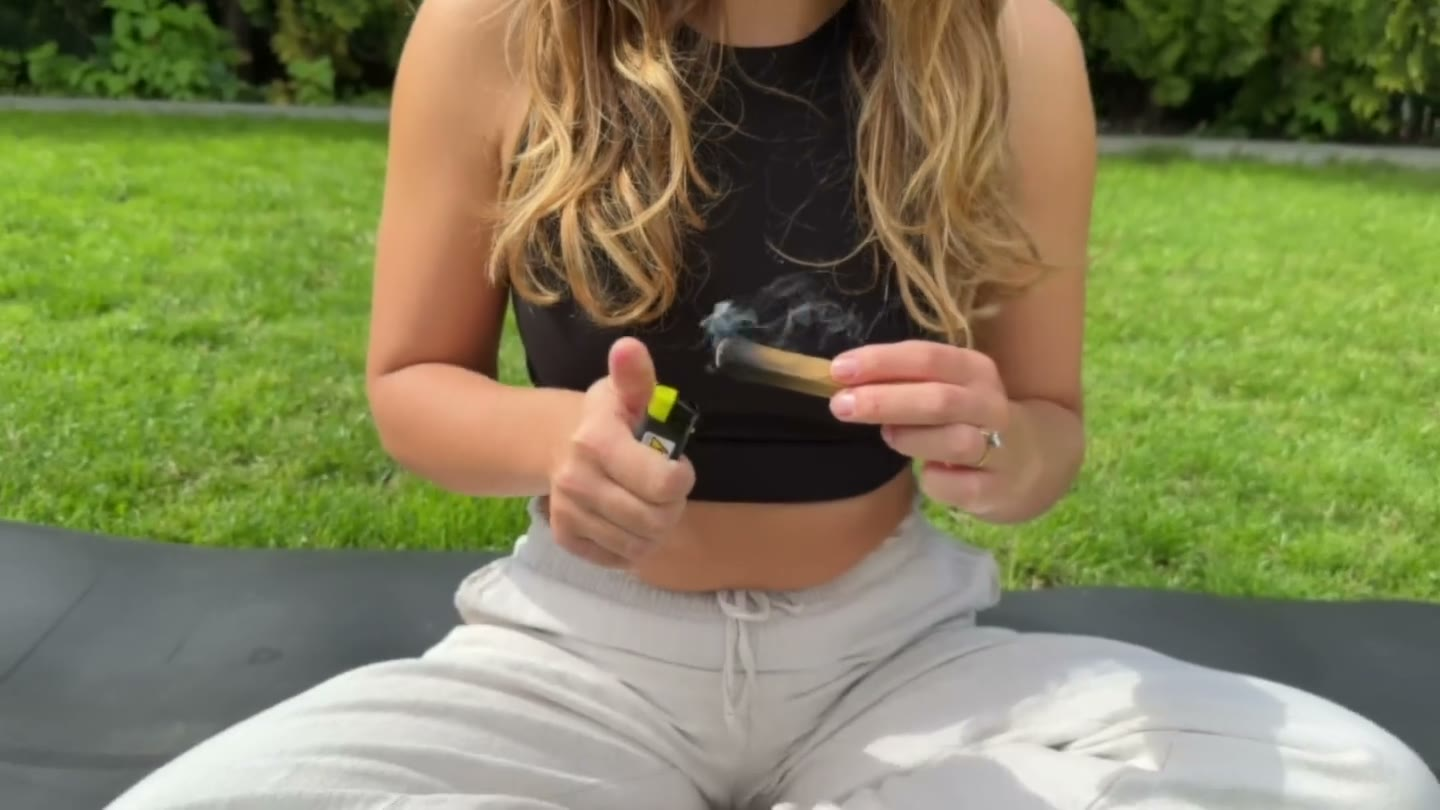
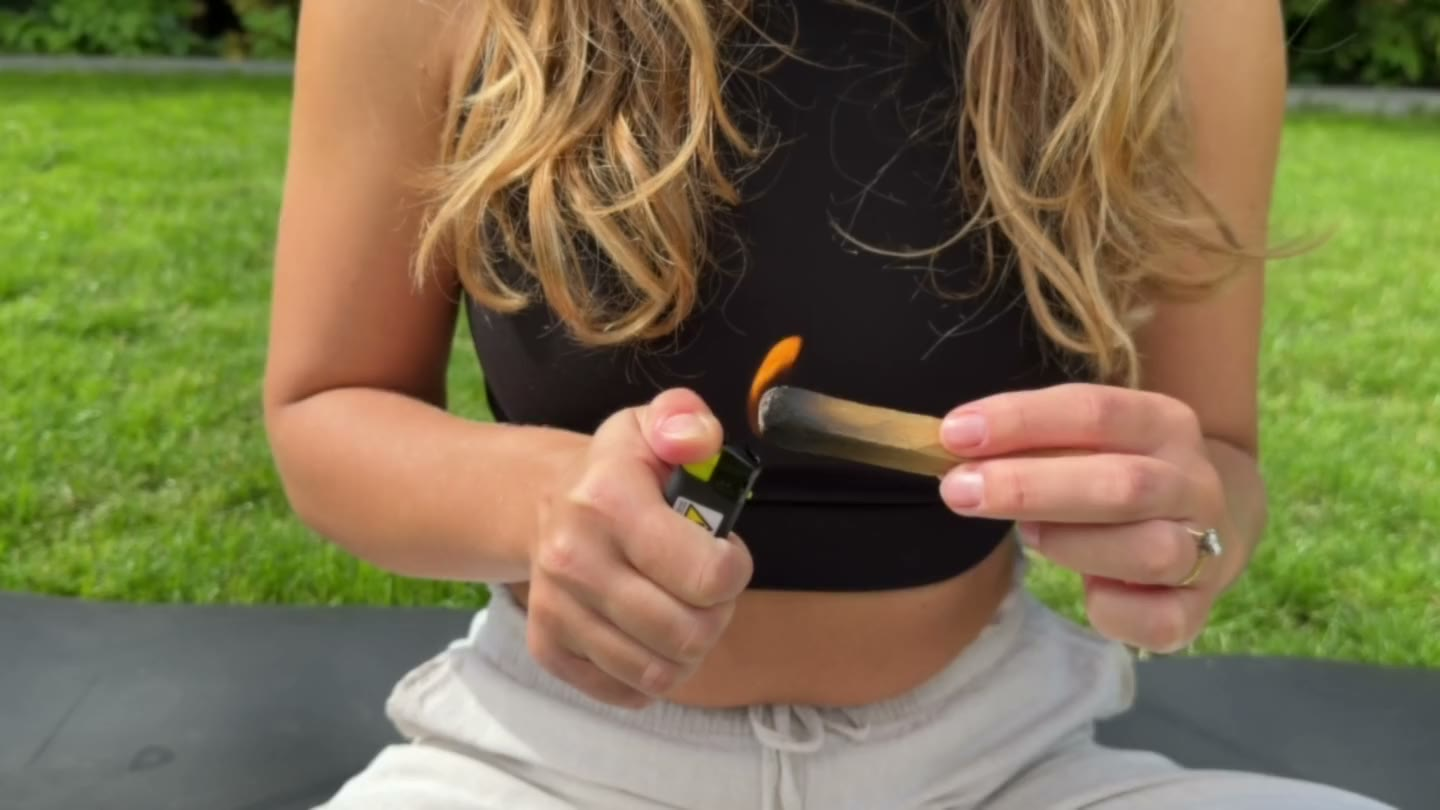
Plynne wejscie wideo, poster zgodny z pierwsza klatka
Claude-Session: https://claude.ai/code/session_01FkRM7QP6YXK2C4QfBibpw8

diff --git a/style.css b/style.css
@@ -95,8 +95,9 @@ section { padding-block: 72px; }
 /* ========================================
    HERO: wideo na całą szerokość
    ======================================== */
-.hero { position: relative; height: 100svh; min-height: 520px; max-height: 900px; overflow: hidden; background: var(--choco); padding: 0; }
-.hero__video { position: absolute; inset: 0; width: 100%; height: 100%; object-fit: cover; }
+.hero { position: relative; height: 100svh; min-height: 520px; max-height: 900px; overflow: hidden; padding: 0; background: var(--choco) url("img/hero-poster.jpg") center / cover no-repeat; }
+.hero__video { position: absolute; inset: 0; width: 100%; height: 100%; object-fit: cover; opacity: 0; transition: opacity .45s ease; }
+.hero__video.is-ready { opacity: 1; }
 .hero::before { content: ""; position: absolute; inset: 0; background: linear-gradient(180deg, rgba(58,42,32,0.25) 0%, rgba(58,42,32,0.15) 50%, rgba(58,42,32,0.55) 100%); }
 .hero__overlay { position: relative; z-index: 1; height: 100%; display: flex; flex-direction: column; align-items: center; justify-content: center; text-align: center; padding: 20px; color: var(--bg); }
 .hero__title { font-family: var(--font-head); font-weight: 400; font-size: clamp(5.5rem, 22vw, 12rem); line-height: 0.9; letter-spacing: 0.08em; text-transform: uppercase; color: var(--bg); margin: 0; text-shadow: 0 4px 30px rgba(0,0,0,0.35); }

diff --git a/index.html b/index.html
@@ -51,7 +51,7 @@
 
 <!-- ===== HERO: wideo na całą szerokość ===== -->
 <section class="hero" id="hero">
-  <video class="hero__video" id="hero-video" autoplay muted loop playsinline preload="metadata" poster="img/hero-poster.jpg">
+  <video class="hero__video" id="hero-video" autoplay muted loop playsinline preload="auto" poster="img/hero-poster.jpg">
     <source src="img/hero.mp4" type="video/mp4">
   </video>
   <div class="hero__overlay">
@@ -216,6 +216,15 @@
       sel.appendChild(o);
       d.setDate(d.getDate() + 7);
     }
+  })();
+
+  // Płynne wejście wideo, gdy jest gotowe do odtwarzania
+  (function () {
+    var v = document.getElementById('hero-video');
+    if (!v) return;
+    function show() { v.classList.add('is-ready'); }
+    if (v.readyState >= 3) show();
+    else { v.addEventListener('playing', show); v.addEventListener('canplay', show); }
   })();
 
   // Dźwięk w wideo: przeglądarki wymagają kliknięcia
